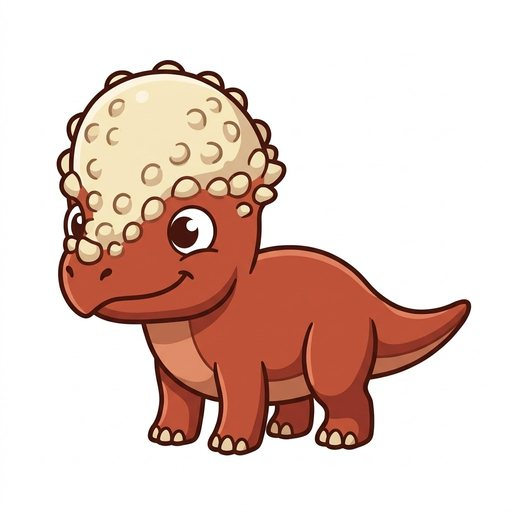
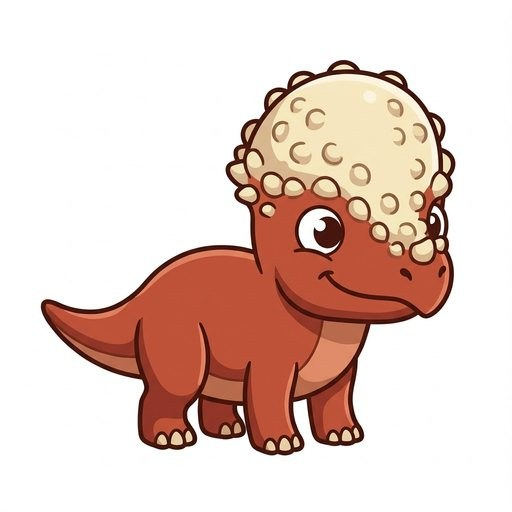
Harder Year 1 maths and spelling; Pachycephalosaurus faces right
Maths (each new type modelled on an AC9 elaboration):
- missing parts to 10/20, near doubles, 20 take away (N02, N04)
- '35 is 2 tens and ? ones', look-alike numbers, 10 more/less (N01, N02)
- counting $2 coins and $5/$10 notes, stacks of ten $1 coins (A01, N03)
- longer repeating patterns, 'wheels on 3 cars' groups (A02, N06)
- whole-dollar money stories, bus on/off, grouping into bags (N05, N06)
- review questions from easier levels drop from 1 in 3 to 1 in 5

Spelling:
- Year 1 challenge words mixed in about 1 catch in 4 (blends, long vowels,
  word families, two-syllable, high-frequency), with an on/off setting
- 4 decoy letters, mostly look-alike or sound-alike (b/d, vowels, c/k/s)
- right tile glows after 3 wrong taps instead of 2

Art: 08_pachycephalosaurus game copy mirrored to face right

diff --git a/game/index.html b/game/index.html
@@ -129,6 +129,10 @@ h2{font-size:clamp(1.6rem,5vw,2.4rem);font-weight:800}
 .grp i,.berry{width:16px;height:16px;border-radius:50%;background:var(--t-meat);display:block}
 .coin{width:42px;height:42px;border-radius:50%;background:radial-gradient(circle at 35% 30%,#FFE9A8,#E2B23C 70%,#C9961F);display:grid;place-items:center;font-family:var(--display);font-weight:800;font-size:1rem;color:#6E4C00;box-shadow:0 2px 0 var(--line)}
 .mini{width:56px}
+.note{width:60px;height:32px;border-radius:5px;display:grid;place-items:center;font-family:var(--display);font-weight:800;font-size:1rem;box-shadow:0 2px 0 var(--line)}
+.note.five{background:linear-gradient(135deg,#F3B5D8,#C99BE0);color:#5B2A6E} .note.ten{background:linear-gradient(135deg,#9FD3F5,#6FA8E8);color:#163E6E}
+.rod.stack{background:repeating-linear-gradient(180deg,#F2C94C 0 10px,#C9961F 10px 12px)}
+.cube.gold{background:#F2C94C;border-radius:50%}
 .shp{display:block;width:40px;height:40px}
 .shp.circle{border-radius:50%;background:var(--lava)}
 .shp.square{border-radius:6px;background:var(--t-sea)}
@@ -279,6 +283,8 @@ textarea{font:inherit;font-size:1.1rem;border-radius:12px;border:2px solid #1E2B
         <textarea id="p-words" aria-label="Spelling words"></textarea>
         <button class="plain" id="p-save-words">Save words</button>
         <span class="status" id="p-words-status"></span>
+        <p>Challenge words: about 1 catch in 4 uses a Year 1 word instead (blends like "frog", long vowels like "rain", word families like "played", two-syllable words like "rabbit").</p>
+        <div class="seg" id="p-chal"><button data-c="1" aria-pressed="false">Challenge words on</button><button data-c="0" aria-pressed="false">Homework words only</button></div>
       </div>
       <div class="panel">
         <h3>Maths in battles</h3>
@@ -489,11 +495,11 @@ function startEncounter(chosen){
 // Level 1 is Foundation revision; levels 2-6 cover the Year 1 number and algebra content descriptions.
 const LEVELS=[null,
   {name:"1. Adding to 10",code:"Foundation revision"},
-  {name:"2. Make 10, take away",code:"AC9M1N04"},
-  {name:"3. Add and take away to 20",code:"AC9M1N04"},
+  {name:"2. Make 10, missing parts, take away",code:"AC9M1N02, AC9M1N04"},
+  {name:"3. Add and take away to 20",code:"AC9M1N02, AC9M1N04"},
   {name:"4. Numbers to 120, tens and ones",code:"AC9M1N01, AC9M1N02"},
-  {name:"5. Skip counting, groups, patterns",code:"AC9M1A01, AC9M1N03, AC9M1A02"},
-  {name:"6. Story problems, sharing, money",code:"AC9M1N05, AC9M1N06"}];
+  {name:"5. Skip counting, coins, groups, patterns",code:"AC9M1A01, AC9M1A02, AC9M1N03, AC9M1N06"},
+  {name:"6. Story problems, money, sharing",code:"AC9M1N05, AC9M1N06"}];
 const SHAPES={circle:"circle",square:"square",tri:"triangle",star:"star"};
 const shape=k=>`<i class="shp ${k}"></i>`;
 const eq=t=>`<div class="eq">${t}</div>`, words=t=>`<div class="eq words">${t}</div>`;
@@ -559,20 +565,75 @@ function money(){
   const coins=Array.from({length:a},(_,i)=>`<span class="coin" style="${i>=a-b?"opacity:.3":""}">$1</span>`).join("");
   return {html:words(t)+`<div class="row-vis">${coins}</div>`,say:t,ans:a-b,choices:nums(a-b,[1,2])};
 }
+/* Harder Year 1 variants, each modelled on an official AC9 elaboration */
+const ONES=["zero","one","two","three","four","five","six","seven","eight","nine","ten","eleven","twelve","thirteen","fourteen","fifteen","sixteen","seventeen","eighteen","nineteen"],TENS=["","","twenty","thirty","forty","fifty","sixty","seventy","eighty","ninety"];
+const numWord=n=>n<20?ONES[n]:n>=100?"one hundred"+(n>100?" and "+numWord(n-100):""):TENS[Math.floor(n/10)]+(n%10?"-"+ONES[n%10]:"");
+// AC9M1N02 part-part-whole: "4 and how many more make 9?"
+function missingPart(max){const b=between(5,max),a=between(1,b-1);return {html:eq(`${a} + ? = ${b}`)+frames([...rep(a,"a"),...rep(b-a,"e")]),say:`${a} and how many more make ${b}?`,ans:b-a,choices:nums(b-a,[1,2])}}
+// AC9M1N02: "35 is 2 tens and 15 ones"
+function tensOnesOther(){
+  const t=between(2,9),o=between(0,9),n=t*10+o,ans=10+o,s=new Set([ans,o,ans+1,ans-1]);
+  return {html:eq(String(n))+`<div class="base">${'<i class="rod"></i>'.repeat(t-1)}<div class="strip" style="margin-left:8px"><b class="ask">?</b></div></div>`+words(`${t-1} ${plural(t-1,"ten","tens")} and ? ones`),
+    say:`${n} is ${t-1} ${plural(t-1,"ten","tens")} and how many ones?`,ans,choices:[...s].filter(v=>v>=0).slice(0,4).sort((a,b)=>a-b)};
+}
+// AC9M1N01: numbers that look and sound alike, e.g. 16, 60, 61, 66
+function lookAlike(){
+  let a=between(1,9),b=between(1,9); while(b===a)b=between(1,9);
+  const opts=shuffle([...new Set([a*10+b,b*10+a,a*11,b*10,a*10])]).slice(0,4),ans=pick(opts);
+  return {html:words("Tap the number")+words(`<b style="font-size:1.4em">${numWord(ans)}</b>`),say:`Tap the number ${ans}.`,ans,choices:opts.sort((x,y)=>x-y)};
+}
+// AC9M1N01 hundreds chart: 10 more / 10 less
+function tenMore(){const n=between(10,110),up=n+10<=120&&Math.random()<.6,ans=up?n+10:n-10;
+  return {html:strip(up?[n,"?"]:["?",n])+words(up?"10 more":"10 less"),say:`What is 10 ${up?"more":"less"} than ${n}?`,ans,choices:nums(ans,[1,10])};}
+// AC9M1A01: count $2 coins by twos, $5 and $10 notes by fives and tens
+function countMoney(){
+  const [v,cls]=pick([[2,"coin"],[5,"note five"],[10,"note ten"]]),k=between(2,v===2?10:v===5?8:6);
+  return {html:`<div class="row-vis">${`<span class="${cls}">$${v}</span>`.repeat(k)}</div>`+words(`Count by ${v}s`),
+    say:`Count by ${v}s. How many dollars altogether?`,ans:k*v,choices:nums(k*v,[v,1],1)};
+}
+// AC9M1N03: stacks of ten $1 coins plus leftovers
+function coinStacks(){const g=between(1,9),o=between(0,9),ans=g*10+o;
+  return {html:`<div class="base">${'<i class="rod stack"></i>'.repeat(g)}<div class="cubes">${'<i class="cube gold"></i>'.repeat(o)}</div></div>`+words(`${g} ${plural(g,"stack","stacks")} of 10 $1 coins and ${o} more`),
+    say:`${g} ${plural(g,"stack","stacks")} of 10 coins, and ${o} more ${plural(o,"coin","coins")}. How many dollars?`,ans,choices:nums(ans,[1,10],1)};}
+// AC9M1A02: longer repeating units, e.g. SSCSC
+function longPattern(){
+  const [A,B,C]=shuffle(Object.keys(SHAPES)),unit=pick([[A,A,B,A,B],[A,B,C,C],[A,B,B,C]]);
+  const len=unit.length+1+rand(unit.length),seq=Array.from({length:len},(_,i)=>unit[i%unit.length]),ans=unit[len%unit.length];
+  const choices=shuffle([...new Set(unit)]); if(choices.length<3)choices.push(Object.keys(SHAPES).find(k=>!choices.includes(k)));
+  return {html:`<div class="strip">${seq.map(k=>`<b>${shape(k)}</b>`).join("")}<b class="ask">?</b></div>`,
+    say:`${seq.map(k=>SHAPES[k]).join(", ")}. What shape comes next?`,ans,choices,label:shape,sayAns:k=>SHAPES[k]};
+}
+// AC9M1N06: "How many wheels are needed for 3 cars?"
+function equalGroups(){
+  const o=pick([{n:"cars",e:4,w:"wheels"},{n:"dinos",e:4,w:"legs"},{n:"birds",e:2,w:"legs"},{n:"hands",e:5,w:"fingers"},{n:"tricycles",e:3,w:"wheels"}]),g=between(2,5);
+  const grp=`<div class="grp" style="grid-template-columns:repeat(${Math.min(o.e,3)},16px)">${"<i></i>".repeat(o.e)}</div>`;
+  return {html:`<div class="row-vis">${grp.repeat(g)}</div>`+words(`${g} ${o.n}: how many ${o.w}?`),say:`How many ${o.w} on ${g} ${o.n}?`,ans:g*o.e,choices:nums(g*o.e,[o.e,1],1)};
+}
+// AC9M1N05: whole-dollar money stories ("I had $14 and was given $15")
+function moneyAdd(){const a=between(5,15),b=between(5,15),t=`You had ${a} dollars. You got ${b} dollars for your birthday. How many dollars do you have now?`;
+  return {html:words(t),say:t,ans:a+b,choices:nums(a+b,[1,2,10],1)};}
+// AC9M1N05: people getting on and off a bus
+function bus(){const a=between(4,12),off=between(1,a-1),on=between(1,8),t=`${a} people are on the bus. ${off} get off. Then ${on} get on. How many people are on the bus now?`;
+  return {html:words(t),say:t,ans:a-off+on,choices:nums(a-off+on,[1,2])};}
+// AC9M1N06: grouping, "How many bags?"
+function bags(){const k=pick([2,3,4,5]),b=between(2,5),n=k*b;
+  return {html:`<div class="row-vis">${'<i class="berry"></i>'.repeat(n)}</div>`+words(`${n} berries in bags of ${k}`),say:`${n} berries go into bags of ${k}. How many bags do you need?`,ans:b,choices:nums(b,[1,2],1)};}
+
 const QUESTIONS={
   1:[()=>{const a=between(1,9);return add(a,between(1,10-a))}],
-  2:[makeTen,()=>{const a=between(3,10);return sub(a,between(1,a-1))}],
+  2:[makeTen,()=>missingPart(10),()=>{const a=between(3,10);return sub(a,between(1,a-1))}],
   3:[()=>{const n=between(1,9);return Math.random()<.5?add(10,n):add(n,10)},
      ()=>{const a=between(11,17);return add(a,between(1,19-a))},
      ()=>{const a=between(6,9);return add(a,between(11-a,9))},
      ()=>{const a=between(11,19);return sub(a,between(1,a-10))},
-     ()=>{const a=between(11,18);return sub(a,between(a-9,9))}],
-  4:[tensOnes,nextTo,bigger],
-  5:[skip,groups,pattern],
-  6:[share,story,money],
+     ()=>{const a=between(11,18);return sub(a,between(a-9,9))},
+     ()=>missingPart(20), ()=>{const a=between(4,9);return add(a,a+1)}, ()=>sub(20,between(3,12))],
+  4:[tensOnes,tensOnesOther,nextTo,tenMore,bigger,lookAlike],
+  5:[skip,groups,pattern,longPattern,countMoney,coinStacks,equalGroups],
+  6:[share,story,money,moneyAdd,bus,bags],
 };
 function makeQ(){
-  const L=S.mathLvl, lv=(L>1&&Math.random()<.33)?between(1,L-1):L; let q,g=0;
+  const L=S.mathLvl, lv=(L>1&&Math.random()<.2)?between(1,L-1):L; let q,g=0;
   do{q=pick(QUESTIONS[lv])();g++}while(E.q&&q.say===E.q.say&&g<6);
   q.lvl=lv; return q;
 }
@@ -740,19 +801,34 @@ async function answer(v,btn){
 }
 
 /* ---------- Catch (spelling) ---------- */
-function pickWord(){const w=(S.words&&S.words.length?S.words:DEFAULT_WORDS);let x=w[rand(w.length)];if(w.length>1&&x===S.lastWord)x=w[rand(w.length)];S.lastWord=x;save();return x}
+// Year 1 challenge words (AC9 English), mixed in with his homework words about 1 catch in 4.
+const CHALLENGE=[
+  "wish","rest","ship","chat","shop","then","stop","frog","swim","flag","black","step", // digraphs and blends (AC9E1LY11, LY13)
+  "time","cake","rain","play","keep","boat","ride","home",                          // common long vowels (AC9E1LY11)
+  "plays","played","playing","jumped","helped","looking",                         // word families (AC9E1LY15)
+  "rabbit","sunset","picnic","dinner","garden","robot",                            // two-syllable words (AC9E1LY13)
+  "one","have","pretty","little","what","where"];                                 // high-frequency words (AC9E1LY14)
+// Decoy letters that are easy to mix up with the word's real letters (b/d, short vowels, c/k/s...)
+const CONFUSE={a:"eou",e:"ai",i:"ey",o:"au",u:"oa",b:"dp",d:"bp",p:"bd",m:"nw",n:"mh",c:"ks",k:"c",s:"cz",g:"j",j:"g",f:"vt",v:"fw",w:"vy",y:"wi",h:"n",t:"fl",l:"it",r:"wn",x:"ks",z:"s"};
+function pickWord(){
+  const home=S.words&&S.words.length?S.words:DEFAULT_WORDS, ch=S.challenge!==false&&Math.random()<.25, w=ch?CHALLENGE:home;
+  let x=w[rand(w.length)]; if(w.length>1&&x===S.lastWord)x=w[rand(w.length)];
+  S.lastWord=x; save(); E.challenge=ch; return x;
+}
 function startCatch(intro){
   const w=E.wild, word=pickWord(); E.word=word; E.pos=0; E.lm=0; E.busy=false;
   art($("c-art"),w); $("c-title").textContent=E.first?`Catch your first dino!`:`Catch the ${w.name}!`;
   $("egg").style.setProperty("--charge",0); $("egg").style.transform="";
   const slots=$("slots"); slots.innerHTML=""; for(let i=0;i<word.length;i++){const s=document.createElement("div");s.className="slot";slots.appendChild(s)}
-  const letters=word.split(""); const pool="abcdefghijklmnoprstuvwy".split("").filter(c=>!letters.includes(c));
-  for(let i=0;i<3&&pool.length;i++)letters.push(pool.splice(rand(pool.length),1)[0]);
-  letters.sort(()=>Math.random()-.5);
+  const letters=word.split(""), decoys=[];
+  for(const c of shuffle([...new Set(letters)]))for(const d of (CONFUSE[c]||""))if(!letters.includes(d)&&!decoys.includes(d))decoys.push(d);
+  const pool=shuffle("abcdefghijklmnoprstuvwy".split("").filter(c=>!letters.includes(c)&&!decoys.includes(c)));
+  const extra=shuffle(decoys).slice(0,3).concat(pool).slice(0,4); // 4 decoys, mostly look-alike or sound-alike letters
+  letters.push(...extra); shuffle(letters);
   const tiles=$("tiles"); tiles.innerHTML="";
   letters.forEach(c=>{const t=document.createElement("button");t.className="tile";t.textContent=c;t.dataset.c=c;t.onclick=()=>tap(t);tiles.appendChild(t)});
   show("s-catch");
-  say(`${intro} Spell... ${word}.`);
+  say(`${intro} ${E.challenge?"Challenge word! ":""}Spell... ${word}.`);
 }
 $("c-say").onclick=()=>say(E.word);
 function tap(t){
@@ -766,7 +842,9 @@ function tap(t){
     return;
   }
   E.lm++; sfx.bad(); t.classList.remove("shake"); void t.offsetWidth; t.classList.add("shake");
-  if(E.lm>=2){const g=[...document.querySelectorAll(".tile:not(.used)")].find(x=>x.dataset.c===need); if(g)g.classList.add("glow"); say(`Listen... ${E.word}.`);}
+  // The right tile only glows after 3 wrong taps; after 2 he hears the word again.
+  if(E.lm>=3){const g=[...document.querySelectorAll(".tile:not(.used)")].find(x=>x.dataset.c===need); if(g)g.classList.add("glow"); say(`Listen... ${E.word}.`);}
+  else if(E.lm===2) say(`Listen... ${E.word}.`);
   else say("Try again!");
 }
 async function throwEgg(){
@@ -840,8 +918,10 @@ function syncMath(){
   for(let i=1;i<LEVELS.length;i++){const b=document.createElement("button");b.innerHTML=`${LEVELS[i].name}<small style="display:block;font-weight:400;opacity:.75">${LEVELS[i].code}</small>`;
     b.setAttribute("aria-pressed",String(S.mathLvl===i));b.onclick=()=>{S.mathLvl=i;S.streak=0;S.stuck=0;save();syncMath()};box.appendChild(b)}
   document.querySelectorAll("#p-hits button").forEach(b=>b.setAttribute("aria-pressed",String(+b.dataset.h===S.hits)));
+  document.querySelectorAll("#p-chal button").forEach(b=>b.setAttribute("aria-pressed",String((b.dataset.c==="1")===(S.challenge!==false))));
 }
 document.querySelectorAll("#p-hits button").forEach(b=>b.onclick=()=>{S.hits=+b.dataset.h;save();syncMath()});
+document.querySelectorAll("#p-chal button").forEach(b=>b.onclick=()=>{S.challenge=b.dataset.c==="1";save();syncMath()});
 $("p-reset").onclick=()=>{$("p-reset-yes").hidden=false};
 $("p-reset-yes").onclick=()=>{S.owned={};S.last=null;S.streak=0;S.stuck=0;save();$("p-reset-yes").hidden=true;$("p-reset").textContent="Progress reset";};
 

diff --git a/CLAUDE.md b/CLAUDE.md
@@ -6,7 +6,7 @@ Learning game for my son: Pokémon-Go-style dinosaur catching. Maths battles wea
 - game/index.html: the whole game (one HTML file, no build step). Open it in a browser to run it.
 - game/dinos/NN_name.jpg: game art (512px). Ids match the SPECIES list in index.html.
 - game/dinos/NN_name_attack.webp: attack pose for each dino (swapped in during the battle lunge). Full-size originals are assets/dinos/NN_name_attack.jpeg.
-- 16_amargasaurus: its Gemini art faced left, so the game copies (normal + attack) are mirrored to face right like the others. Mirror again if you regenerate them from assets/.
+- All game art must face RIGHT (his dino is drawn as-is on the left; the wild dino is flipped). Mirrored because the Gemini art faced left: 16_amargasaurus (normal + attack), 08_pachycephalosaurus (normal only). Mirror again if you regenerate them from assets/, and check the facing of every new dino.
 - game/dinos/NN_name.webp: the same art cut out of its white background. This is what the game loads. Make it with `python3 tools/cutout.py` (needs Pillow + numpy).
 - assets/dinos/NN_name.jpeg: full-size originals from Gemini. assets/style-reference/style-sheet.jpeg: the style all dinos copy.
 - assets/dino_prompts.md: the 40 dinos with types and image prompts. Dinos 01–19 have art; 20–40 still to generate.
